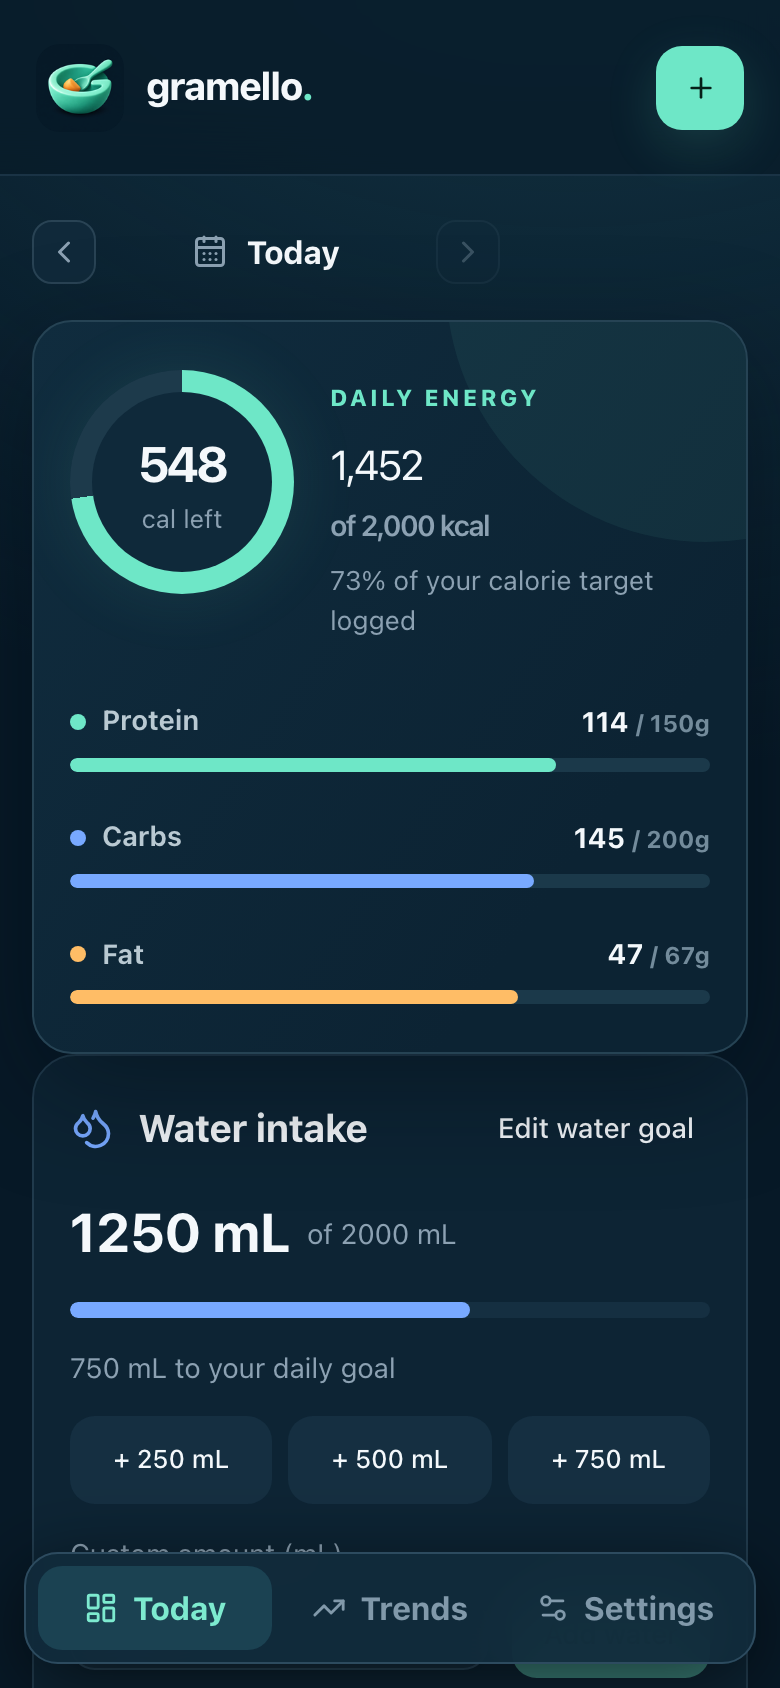
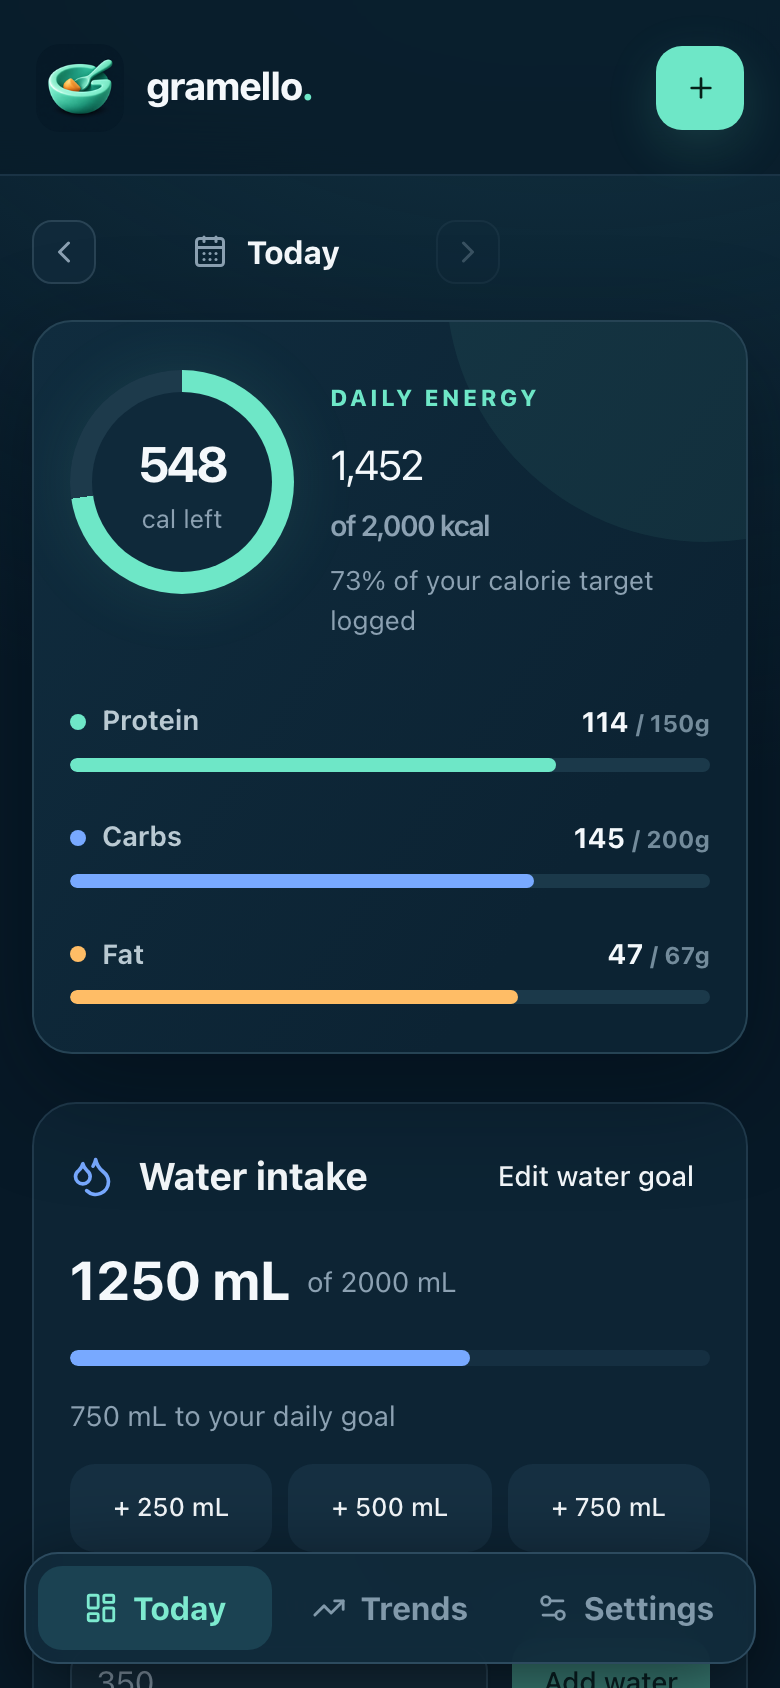
fix(web): space diary cards and compact food filters

diff --git a/app/globals.css b/app/globals.css
@@ -67,6 +67,7 @@
 
 /* Water tracking uses the same diary card and control palette. */
 .water-card{background:#0d2434;border:1px solid #213b4d;border-radius:22px;padding:24px;display:flex;flex-direction:column;gap:14px}
+.overview-card + .water-card{margin-top:24px}
 .water-heading,.water-heading>div,.water-total,.water-presets,.water-custom>div,.water-log li{display:flex;align-items:center;gap:12px}
 .water-heading{justify-content:space-between;flex-wrap:wrap}.water-heading h2{font-size:1.2rem;font-weight:700}.water-heading svg{color:#78a9ff;width:22px}
 .water-total{flex-wrap:wrap;gap:8px}.water-total strong{font-size:1.7rem}.water-total span,.water-status,.water-custom label,.water-goal-form label{color:#8ca1b2;font-size:.875rem}
@@ -99,5 +100,6 @@
 .food-search-form{display:flex;align-items:center;gap:8px}.food-search-form .search-box{flex:1;min-width:0;margin:0}.food-search-form>button{flex-shrink:0;min-height:44px}.search-guidance{color:#9cb0bd;font-size:.75rem;line-height:1.5;margin:8px 0}.search-filters{display:flex;gap:7px;flex-wrap:wrap;margin-top:12px}.search-filters button{min-height:44px;padding:8px 12px;border:1px solid #315065;border-radius:99px;background:#18364a;color:#b8cbd7;font-size:.75rem}.search-filters button[aria-pressed=true]{background:#235b57;border-color:#6ee7c7;color:#b3ffea}.search-brand{display:flex;flex-wrap:wrap;gap:8px;align-items:center;color:#a6bac7;font-size:.76rem;margin-top:10px}.search-brand select{max-width:100%;min-height:44px;flex:1}.search-text-action{color:#a8e8db;text-decoration:underline;background:none;border:0;padding:8px;min-height:44px}.search-continuation{width:100%;margin:12px 0}.search-variants{border:1px solid #315065;border-radius:12px;margin:8px 0}.search-variants summary{cursor:pointer;padding:12px;color:#b8d6e4;font-size:.8rem;min-height:44px}.result-row .search-metadata-warning{color:#ffce8c;font-size:.72rem}.search-empty{height:auto;min-height:200px;text-align:center;padding:18px}.search-empty span{line-height:1.5}.search-filters button:focus-visible,.search-text-action:focus-visible,.search-variants summary:focus-visible{outline:2px solid #6ee7c7;outline-offset:2px}
 @media(max-width:440px){.food-search-form{flex-wrap:wrap}.food-search-form .search-box{flex-basis:100%}.food-search-form>button{width:100%}.search-filters{gap:5px}.search-filters button{padding:7px 10px}}
 /* Keep search controls compact while preserving readable labels and touch targets. */
-.food-picker:has(.food-search-form){gap:8px}.food-picker .search-guidance{margin:0}.food-picker .food-actions{margin:0;gap:6px;flex-direction:row;flex-wrap:nowrap}.food-picker .food-actions>button{flex:1;min-width:0;min-height:44px;padding-inline:10px;font-size:.75rem}.food-picker .search-filters{margin:0;gap:5px}.food-picker .search-brand{margin:0}.food-picker .search-results{margin-top:2px}
-@media(max-width:440px){.food-picker .food-search-form{flex-wrap:nowrap;gap:6px}.food-picker .food-search-form .search-box{flex-basis:auto}.food-picker .food-search-form>button{width:auto;padding-inline:10px;font-size:.75rem}.food-picker .search-brand{display:grid;grid-template-columns:minmax(0,1fr);gap:4px}.food-picker .search-brand select{width:100%;font-size:16px}.food-picker .search-filters button{padding-inline:9px}}
+.food-picker:has(.food-search-form){gap:8px}.food-picker .search-guidance{margin:0}.food-picker .food-actions{margin:0;gap:6px;flex-direction:row;flex-wrap:nowrap}.food-picker .food-actions>button{flex:1;min-width:0;min-height:44px;padding-inline:10px;font-size:.75rem}.food-picker .search-filters{margin:0;gap:5px;flex-wrap:nowrap;overflow-x:auto;padding-block:4px}.food-picker .search-filters button{flex:1 0 auto;white-space:nowrap;padding-inline:8px}.food-picker .search-brand{margin:0}.food-picker .search-results{margin-top:2px}
+@media(max-width:440px){.food-picker .food-search-form{flex-wrap:nowrap;gap:6px}.food-picker .food-search-form .search-box{flex-basis:auto}.food-picker .food-search-form>button{width:auto;padding-inline:10px;font-size:.75rem}.food-picker .search-brand{display:grid;grid-template-columns:minmax(0,1fr);gap:4px}.food-picker .search-brand select{width:100%;font-size:16px}.food-picker .search-filters{gap:3px}.food-picker .search-filters button{padding-inline:4px}}
+@media(max-width:360px){.food-picker .search-filters{gap:2px}.food-picker .search-filters button{padding-inline:2px;font-size:.6875rem}}
